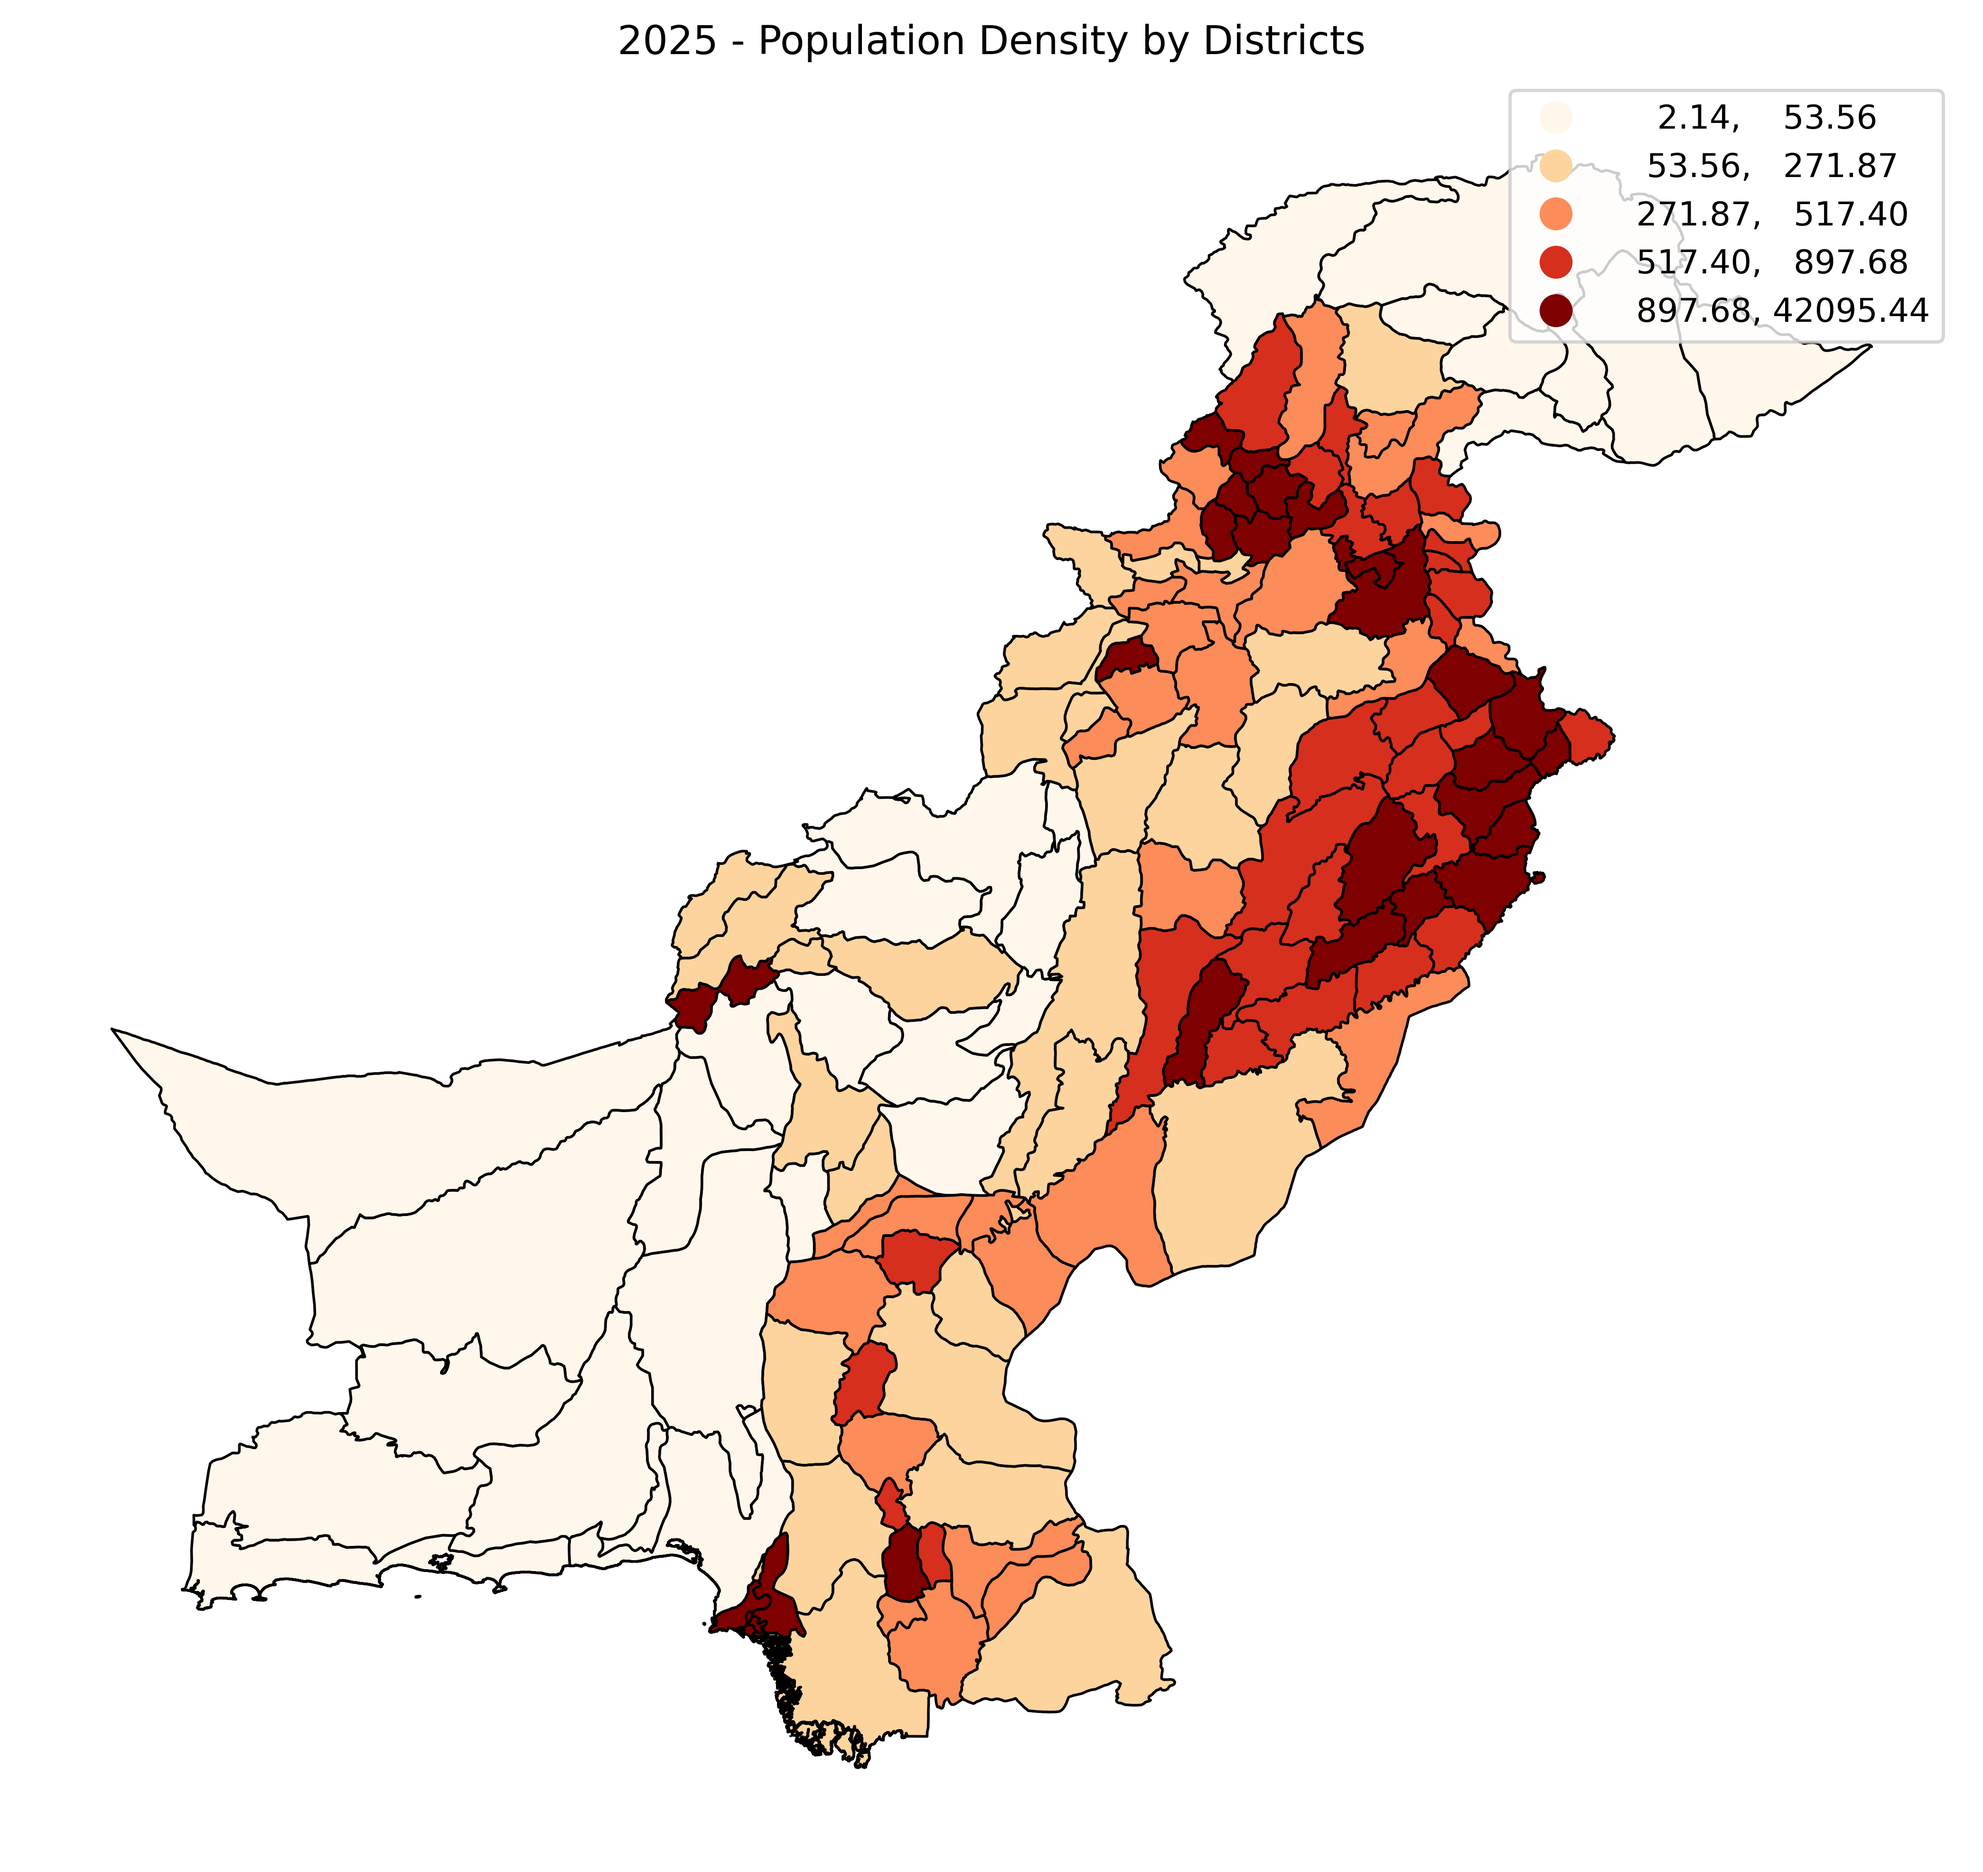
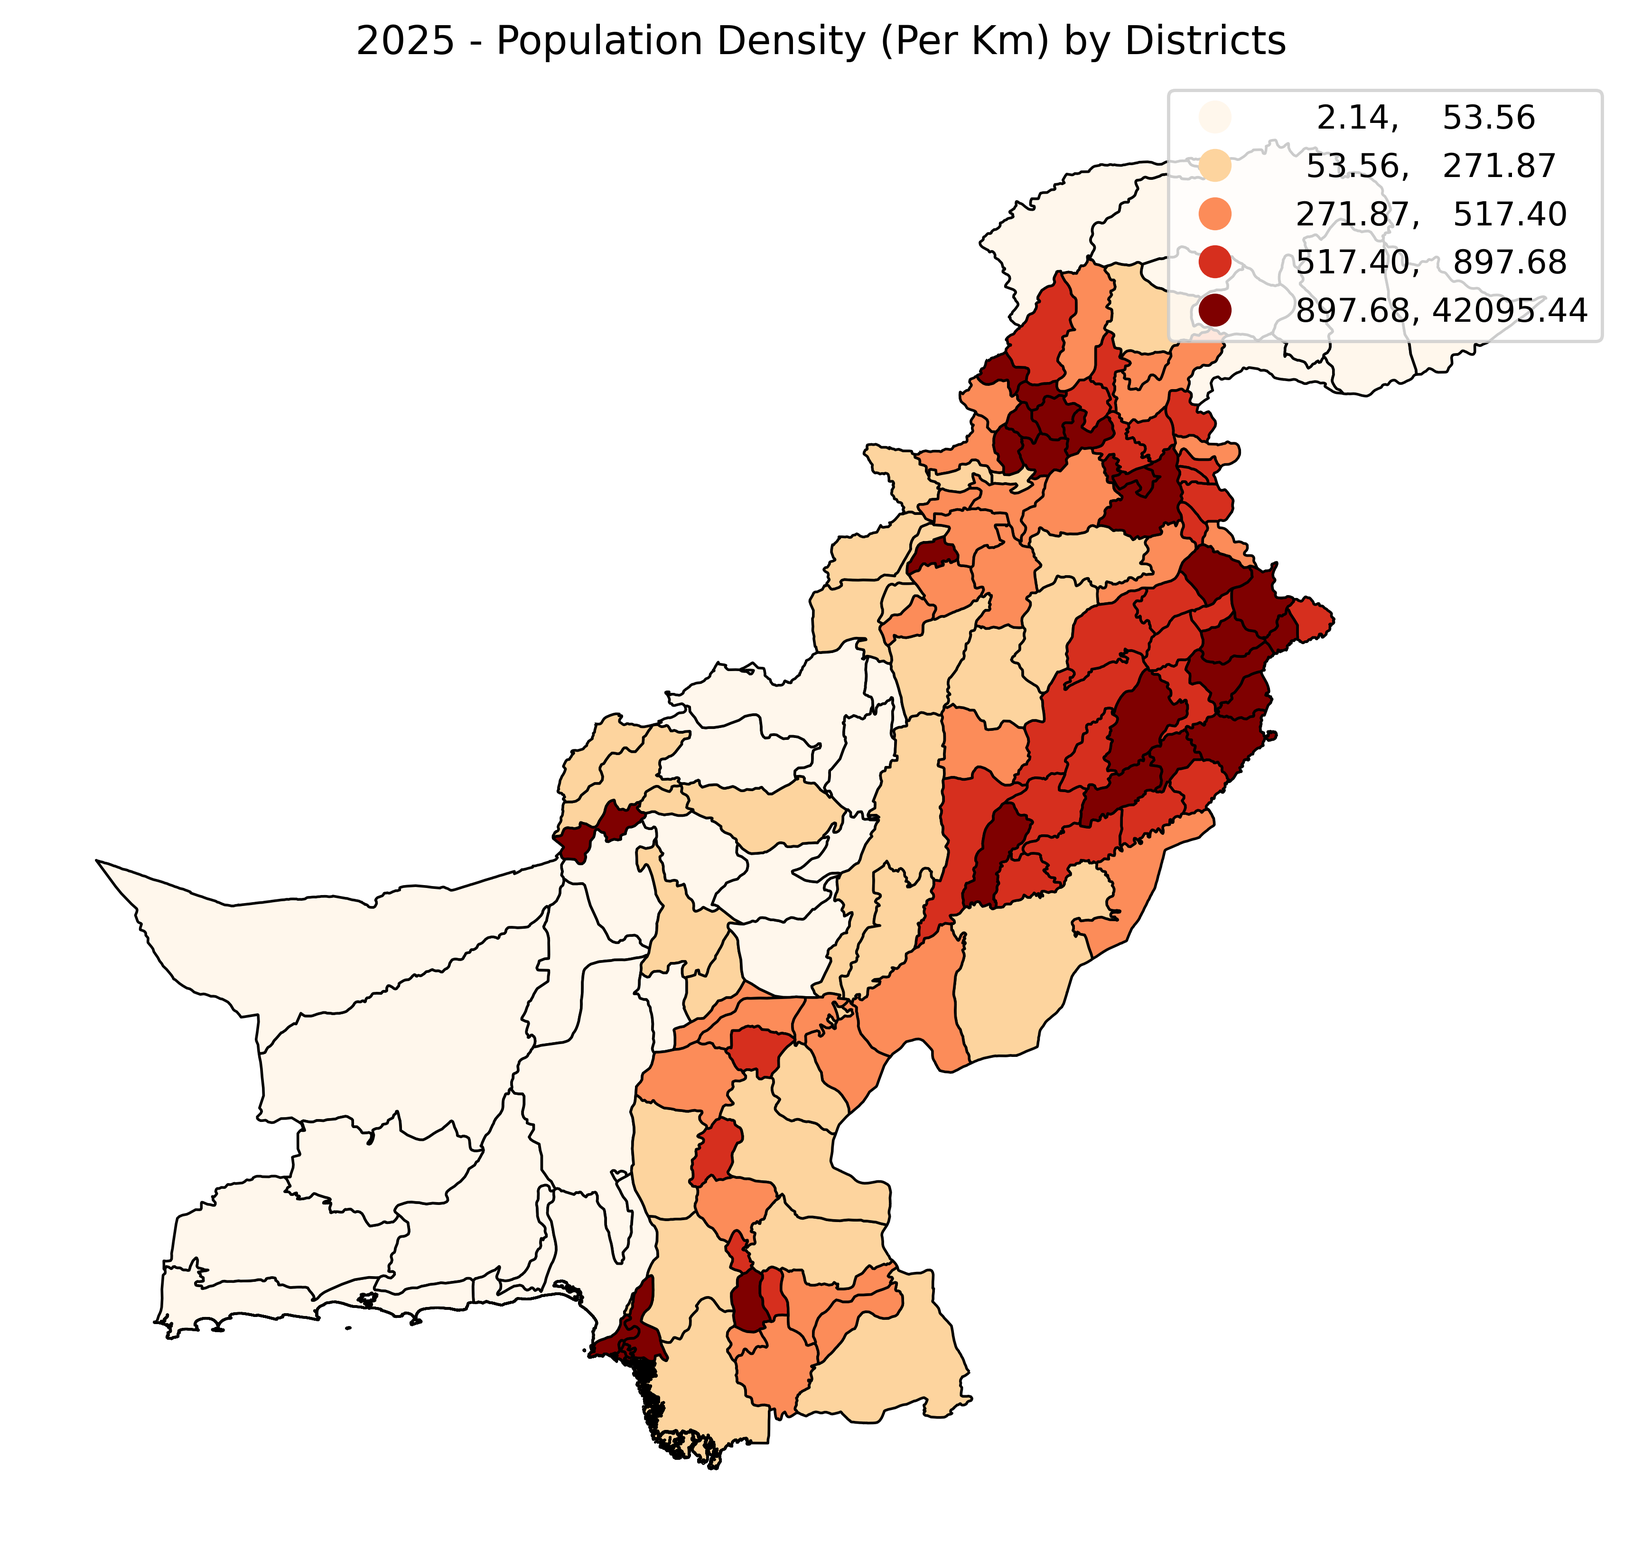
Refactoring p2

diff --git a/src/years/2025/d05_earth/main.py b/src/years/2025/d05_earth/main.py
@@ -2,6 +2,7 @@ import fiona
 import folium
 import geopandas as gpd
 import matplotlib.pyplot as plt
+import contextily as ctx
 
 from pathlib import Path
 from matplotlib.patches import Patch
@@ -57,6 +58,10 @@ def create_html(admin, dataset, output_path):
 def create_png(admin, dataset, output_path):
     """
     """
+    # Ensure Web Mercator CRS for contextily
+    dataset = dataset.to_crs(epsg=3857)
+    admin = admin.to_crs(epsg=3857)
+
     # Calculate a center for the map, e.g., the mean of the bounds
     bounds = admin.total_bounds  # [minx, miny, maxx, maxy]
     center_lat = (bounds[1] + bounds[3]) / 2
@@ -68,10 +73,14 @@ def create_png(admin, dataset, output_path):
     # plot admin boundaries
     admin.plot(
         ax=ax,
-        color='white',
+        facecolor='white',
         edgecolor='black',
-        linewidth=1
+        linewidth=1,
+        alpha=0.2
     )
+    # add basemap (will respect current axis extent)
+    # logger.debug(f"CTX providers - {ctx.providers.OpenStreetMap.keys()}")
+    ctx.add_basemap(ax, crs=admin.crs, source=ctx.providers.OpenStreetMap.Mapnik)
     
     # plot polygons with colors
     dataset.plot(
@@ -79,8 +88,14 @@ def create_png(admin, dataset, output_path):
         color='blue', 
         alpha=0.8
     )
-    ax.set_xlim(center_lon - 9, center_lon + 9)
-    ax.set_ylim(center_lat - 9, center_lat + 9)
+
+    # these are in degrees, to work with contextily use meters as given below
+    # ax.set_xlim(center_lon - 9, center_lon + 9)
+    # ax.set_ylim(center_lat - 9, center_lat + 9)
+    # Set extent BEFORE basemap
+    padding = 50_000  # 50 km padding
+    ax.set_xlim(bounds[0] - padding, bounds[2] + padding)
+    ax.set_ylim(bounds[1] - padding, bounds[3] + padding)
 
     # Add title & legend
     ax.set_title(
@@ -94,12 +109,12 @@ def create_png(admin, dataset, output_path):
     ax.legend(
         handles=[Patch(facecolor='blue', edgecolor='blue',
                                      label=f"Flood Extents")],
-        title="Floods Pakistan 2025",
+        title="",
         loc="upper left",
         frameon=True
     )
     ax.set_axis_off()
-    plt.tight_layout()
+    # plt.tight_layout()
     plt.savefig(output_path, dpi=500, bbox_inches="tight")
 
 def generate_earth_map(path_dir: str, filename: str):

diff --git a/src/years/2025/d19_projections/main.py b/src/years/2025/d19_projections/main.py
@@ -34,10 +34,10 @@ def map_projection(ax, projection, title, extent=None):
     gl.right_labels = False
     gl.xlabel_style = {'size': 8}
     gl.ylabel_style = {'size': 8}
-    # Plot some sample points
-    lons = np.random.uniform(-180, 180, 100)
-    lats = np.random.uniform(-80, 80, 100)
-    ax.scatter(lons, lats, transform=ccrs.PlateCarree(), color='red', s=8, alpha=0.7)
+    # # Plot some sample points
+    # lons = np.random.uniform(-180, 180, 100)
+    # lats = np.random.uniform(-80, 80, 100)
+    # ax.scatter(lons, lats, transform=ccrs.PlateCarree(), color='red', s=8, alpha=0.7)
     
 def create_projection_png(projections, output_path):
     # Create figure
@@ -55,14 +55,14 @@ def create_projection_png(projections, output_path):
         axes.append(ax)
 
     # Add a super-title
-    fig.suptitle(f"Comparison of {len(projections)} Cartopy Map Projections", fontsize=16)
+    fig.suptitle(f"Comparison of Major Cartopy Map Projections", fontsize=16)
 
     # Adjust spacing so things are not overlapping
     # Use tight_layout with padding, plus adjust top for suptitle
     plt.tight_layout(pad=3.0, w_pad=2.0, h_pad=2.0)  # pad, width-pad, height-pad :contentReference[oaicite:0]{index=0}
     fig.subplots_adjust(top=0.88)  # leave room for suptitle :contentReference[oaicite:1]{index=1}
        
-    plt.savefig(f"{output_path}_{len(projections)}", dpi=500, bbox_inches="tight")
+    plt.savefig(f"{output_path}_{len(projections)}", dpi=300, bbox_inches="tight")
 
 def generate_map(path_dir: str, filename: str):
     """   

diff --git a/src/years/2025/d09_analog/main.py b/src/years/2025/d09_analog/main.py
@@ -21,14 +21,7 @@ def create_html(admin, maps_info, output_path):
     if admin is not None and admin.crs.to_string() != "EPSG:4326":
         admin = admin.to_crs(epsg=4326)
         
-    # Calculate a center for the map, e.g., the mean of the bounds
-    bounds = admin.total_bounds  # [minx, miny, maxx, maxy]
-    center_lat = (bounds[1] + bounds[3]) / 2
-    center_lon = (bounds[0] + bounds[2]) / 2
-
-    # Create base folium map 
-    basemap = folium.Map(location=[center_lat, center_lon], zoom_start=6, tiles='OpenStreetMap')
-      
+    basemap = None
     # Add each map one by one
     for map in maps_info: 
         # Load land cover land use layer 
@@ -49,6 +42,13 @@ def create_html(admin, maps_info, output_path):
         # Normalize image values to 0–1 for display
         img = img.astype(float)
         img = (img - np.nanmin(img)) / (np.nanmax(img) - np.nanmin(img))
+
+        # Calculate a center for the map, e.g., the mean of the bounds
+        center_lat = (bounds[1] + bounds[3]) / 2
+        center_lon = (bounds[0] + bounds[2]) / 2
+        if basemap is None:
+            # Create base folium map 
+            basemap = folium.Map(location=[center_lat, center_lon], zoom_start=6, tiles='OpenStreetMap')
 
         folium.raster_layers.ImageOverlay(
             name="Ancient India Map",

diff --git a/src/years/2025/d12_2125/main.py b/src/years/2025/d12_2125/main.py
@@ -19,15 +19,10 @@ def create_raster_png(admin, raster, raster_bounds, title, output_path, text=Non
     if admin is not None and admin.crs.to_string() != "EPSG:4326":
         admin = admin.to_crs(epsg=4326)
 
-    # Calculate a center for the map, e.g., the mean of the bounds
-    bounds = admin.total_bounds  # [minx, miny, maxx, maxy] 
-    center_lat = (bounds[1] + bounds[3]) / 2
-    center_lon = (bounds[0] + bounds[2]) / 2
-
     fig, ax = plt.subplots(figsize=(8,6))
     
     # Plot the polygon layer first, boundary only if needed
-    # world.plot(ax=ax, facecolor='none', edgecolor='black', linewidth=1.0)
+    # admin.plot(ax=ax, facecolor='none', edgecolor='black', linewidth=1.0)
 
     # Plot the mask raster on top  
     # We need to consider the spatial extent if this is georeferenced.

diff --git a/src/years/2025/d16_cell/main.py b/src/years/2025/d16_cell/main.py
@@ -31,7 +31,7 @@ def create_png(dataset, column_to_use, output_path):
         k=5,
     )
     # Beautification
-    ax.set_title("2025 - Population Density by Districts")
+    ax.set_title("2025 - Population Density (Per Km) by Districts")
     ax.axis("off")
     plt.savefig(output_path, dpi=500, bbox_inches="tight")
 
